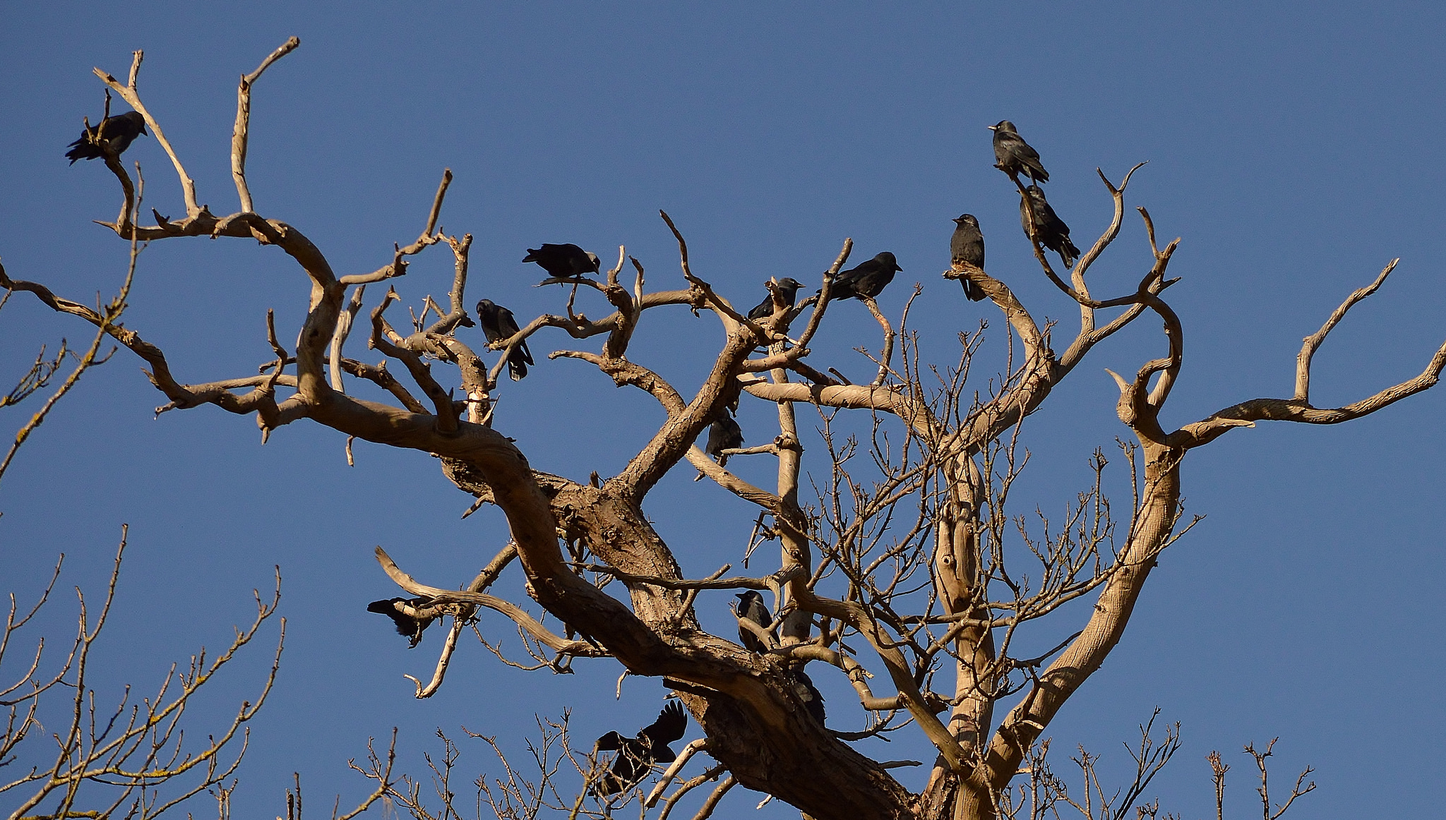
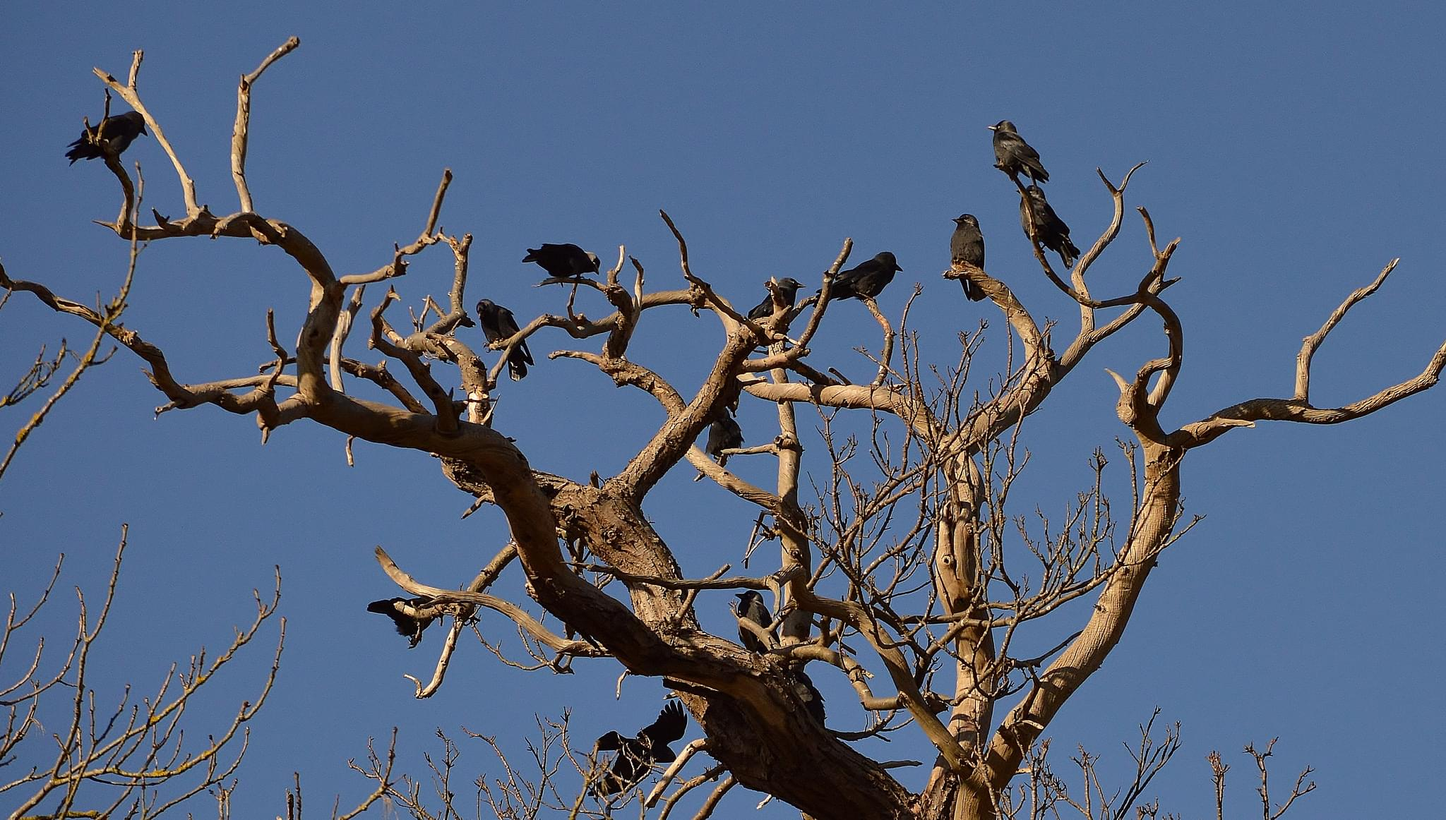
Adding image assets

diff --git a/public/css/app.css b/public/css/app.css
@@ -8762,7 +8762,7 @@ a.navlink {
 }
 
 .notfoundtree {
-  background: url(/images/404tree.jpg?5210947066b8155e980d884aa295f761) no-repeat center center fixed;
+  background: url(/images/404tree.jpg?3c619d32015d1bd5d2d222b350305964) no-repeat center center fixed;
   background-size: cover;
   min-height: 600px;
   max-height: 1162px;
